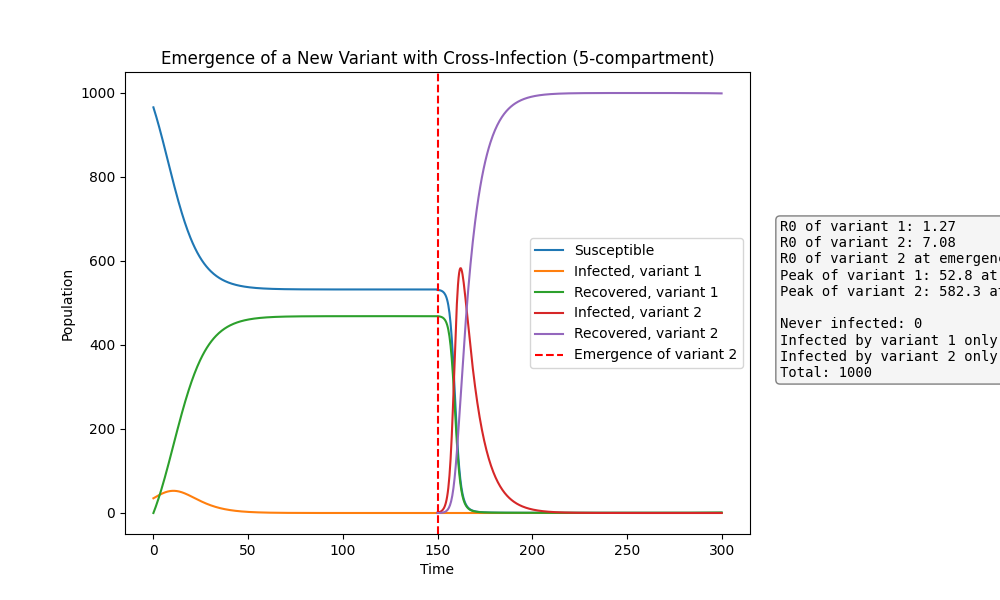
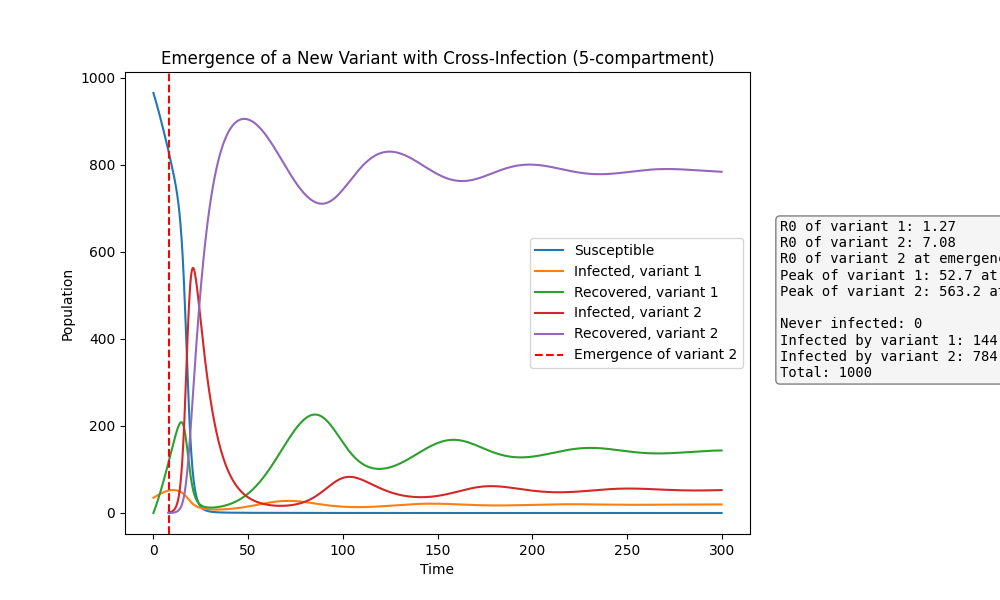
finished base of cross infection 3 recoding

diff --git a/models/cross_infection_3.py b/models/cross_infection_3.py
@@ -6,6 +6,7 @@
 import numpy as np
 import matplotlib.pyplot as plt
 from scipy import integrate
+import os
 
 # index map
 S, I1, I2, R1, R2, S1, S2 = range(7)
@@ -18,12 +19,12 @@ def sim_cross_infection(variables, t, params):
     N = s + i1 + i2 + r1 + r2 + s1 + s2
  
     dSdt  = -beta1 * s * i1 / N - beta2 * s * i2 / N          # S -> I1, S -> I2
-    dI1dt =  beta1 * s * i1 / N + beta1 * s2 * i1 / N - gamma1 * i1  # (S->I1) + (S2->I1) - recovery
-    dI2dt =  beta2 * s * i2 / N + beta2 * s1 * i2 / N - gamma2 * i2  # (S->I2) + (S1->I2) - recovery
-    dR1dt =  gamma1 * i1 - omega * r1 # recovery -> S1
-    dR2dt =  gamma2 * i2 - omega * r2 # recovery -> S2
-    dS1dt =  omega * r1 - beta2 * s1 * i2 / N # S1 -> I2
-    dS2dt =  omega * r2 - beta1 * s2 * i1 / N # S2 -> I1
+    dI1dt =  beta1 * s * i1 / N + beta1 * s2 * i1 / N + beta1 * s1 * i1 / N + beta1 * r2 * i1 / N - gamma1 * i1  # (S->I1) + (S2->I1) + (S1->I1) + (R2->I1) - recovery
+    dI2dt =  beta2 * s * i2 / N + beta2 * s1 * i2 / N + beta2 * s2 * i2 / N + beta2 * r1 * i2 / N - gamma2 * i2  # (S->I2) + (S1->I2) + (S2->I2) + (R1->I2) - recovery
+    dR1dt =  gamma1 * i1 - omega * r1 - beta2 * r1 * i2 / N # recovery -> S1, recovery ->I2
+    dR2dt =  gamma2 * i2 - omega * r2 - beta1 * r2 * i1 / N # recovery -> S2, recovery ->I1
+    dS1dt =  omega * r1 - beta2 * s1 * i2 / N - beta1 * s1 * i1 / N # S1 -> I2, S1->I1
+    dS2dt =  omega * r2 - beta1 * s2 * i1 / N - beta2 * s2 * i2 / N # S2 -> I1, S2->I2
  
     return [dSdt, dI1dt, dI2dt, dR1dt, dR2dt, dS1dt, dS2dt]
  
@@ -49,17 +50,31 @@ def simulate_cross_infection(params, y0, t_emerge, t_total=300, n=1000, seed=1.0
     return np.concatenate([t1, t2]), np.vstack([solution1, solution2])
  
  
-def plot_cross_infection(t, y, title=None, savepath=None):
+def plot_cross_infection(t, y, params, filename = None, figures_dir="figures"):
+    S, I1, I2, R1, R2, S1, S2 = range(7) # indices for the compartments
+    beta1, beta2, gamma1, gamma2, omega = params
     emerge_index = np.argmax(y[:, I2] > 0)
     t_emerge = t[emerge_index]
- 
-    fig, (ax1, ax2) = plt.subplots(2, 1, figsize=(11, 8), sharex=True)
+    N = y[0].sum()  # total population
+
+    #R0
+    R0_1 = beta1 / gamma1
+    R0_2 = beta2 / gamma2
+
+    s_emerge = y[emerge_index, S]
+    s1_emerge = y[emerge_index, S1]
+    s2_emerge = y[emerge_index, S2]
+    r1_emerge = y[emerge_index, R1]
+    effective_R0_2 = R0_2 * (s_emerge + s2_emerge + r1_emerge + s1_emerge)/ N #variant 2 can infect S, S1, S2, and R1
+
+    #plot 
+    f, (ax1, ax2) = plt.subplots(2, 1, figsize=(11, 8), sharex=True)
  
     ax1.plot(t, y[:, I1], color='tab:blue',   lw=2, label='I1 (infected, variant 1)')
     ax1.plot(t[emerge_index:], y[emerge_index:, I2], color='tab:red',    lw=2, label='I2 (infected, variant 2)')
     ax1.axvline(t_emerge, color='gray', ls='--', lw=1, label='Variant 2 emerges')
     ax1.set_ylabel('Infected')
-    ax1.set_title(title or 'Epidemic curves')
+    ax1.set_title('Epidemic curves')
     ax1.legend(loc='upper right', fontsize=9)
  
     ax2.plot(t, y[:, S],  color='black',       lw=2, label='S (never infected)')
@@ -72,13 +87,39 @@ def plot_cross_infection(t, y, title=None, savepath=None):
     ax2.set_ylabel('Population')
     ax2.legend(loc='upper right', fontsize=9)
  
+
+    #stats
+
+    final = y[-1]
+    peak1 = (y[:, I1]).max(); tpeak1 = t[(y[:, I1]).argmax()]
+    peak2 = (y[:, I2]).max(); tpeak2 = t[(y[:, I2]).argmax()]
+
+    stats_lines = [
+        f"R0 of variant 1: {R0_1:.2f}",
+        f"R0 of variant 2: {R0_2:.2f}",
+        f"R0 of variant 2 at emergence: {effective_R0_2:.2f}",
+        f"Peak of variant 1: {peak1:.1f} at t={tpeak1:.1f}",
+        f"Peak of variant 2: {peak2:.1f} at t={tpeak2:.1f}\n",
+        f"Never infected: {final[S]:.0f}",
+    ]
+    stats_text = "\n".join(stats_lines)
+    print(stats_text)
+
+    still = final[I1] + final[I2]
+    if still > 1e-3:
+        print(f"(Still infected at end of run: {still:.1f} - should extend t_total)")
     
-    print(f"[{title}]")
-    print(f"  Variant 1 peak: {y[:, I1].max():7.1f} at t={t[np.argmax(y[:, I1])]:.1f}")
-    print(f"  Variant 2 peak: {y[:, I2].max():7.1f} at t={t[np.argmax(y[:, I2])]:.1f}")
-    print(f"  Never infected at end (S): {y[-1, S]:.1f}")
+    #leave room on right for stats
+    f.subplots_adjust(right=0.75)
+    f.text(0.78, 0.5, stats_text, fontsize=10, va='center', family='monospace', bbox=dict(boxstyle='round', facecolor='whitesmoke', edgecolor='gray'))
+
+    # save image
+    os.makedirs(figures_dir, exist_ok= True)
+    if filename is None:
+        filename = f"cross_inf_3_b1_{beta1:.2f}_b2_{beta2:.2f}.png"
+    filepath = os.path.join(figures_dir, filename)
+    f.savefig(filepath)
+    print(f"Figure saved to {filepath}")
+    plt.show()
  
-    fig.tight_layout()
-    if savepath:
-        fig.savefig(savepath, dpi=110, bbox_inches='tight')
  

diff --git a/models/cross_infection_2.py b/models/cross_infection_2.py
@@ -94,8 +94,8 @@ def plot_cross_infection(t, y, params, filename = None, figures_dir="figures"):
         f"Peak of variant 1: {peak1:.1f} at t={tpeak1:.1f}",
         f"Peak of variant 2: {peak2:.1f} at t={tpeak2:.1f}\n",
         f"Never infected: {final[S]:.0f}",
-        f"Infected by variant 1 only: {final[R1]:.0f}",
-        f"Infected by variant 2 only: {final[R2]:.0f}",
+        f"Infected by variant 1: {final[R1]:.0f}",
+        f"Infected by variant 2: {final[R2]:.0f}",
         f"Total: {final.sum():.0f}",
     ]
 
@@ -113,7 +113,7 @@ def plot_cross_infection(t, y, params, filename = None, figures_dir="figures"):
     # save image
     os.makedirs(figures_dir, exist_ok= True)
     if filename is None:
-        filename = f"cross_inf1_b1_{beta1:.2f}_b2_{beta2:.2f}.png"
+        filename = f"cross_inf_2_b1_{beta1:.2f}_b2_{beta2:.2f}.png"
     filepath = os.path.join(figures_dir, filename)
     f.savefig(filepath)
     print(f"Figure saved to {filepath}")